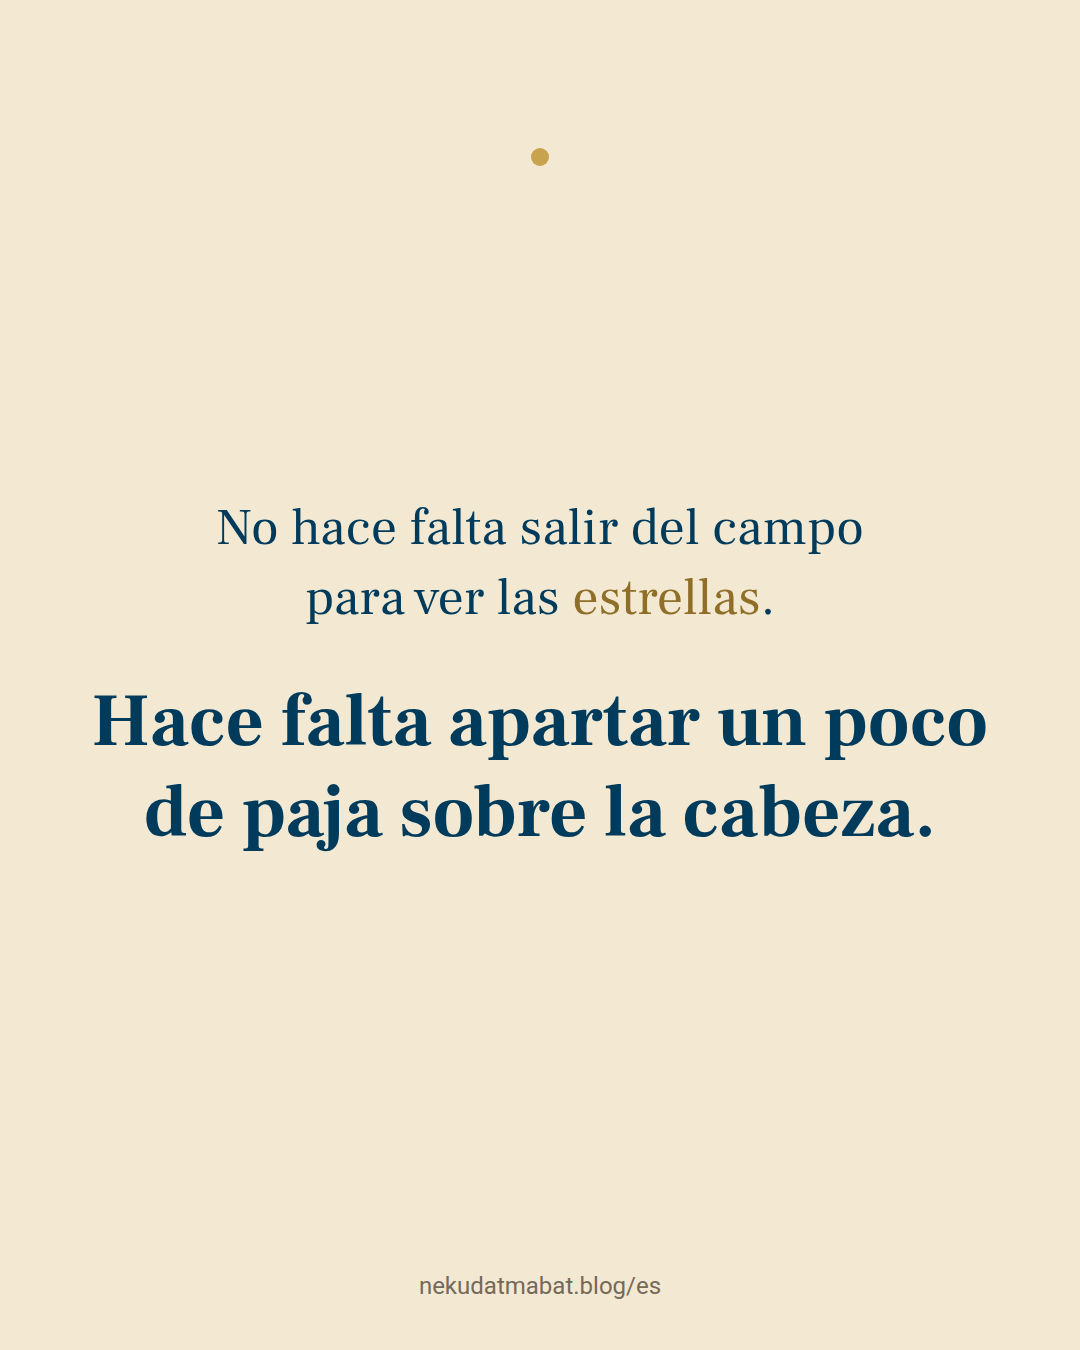
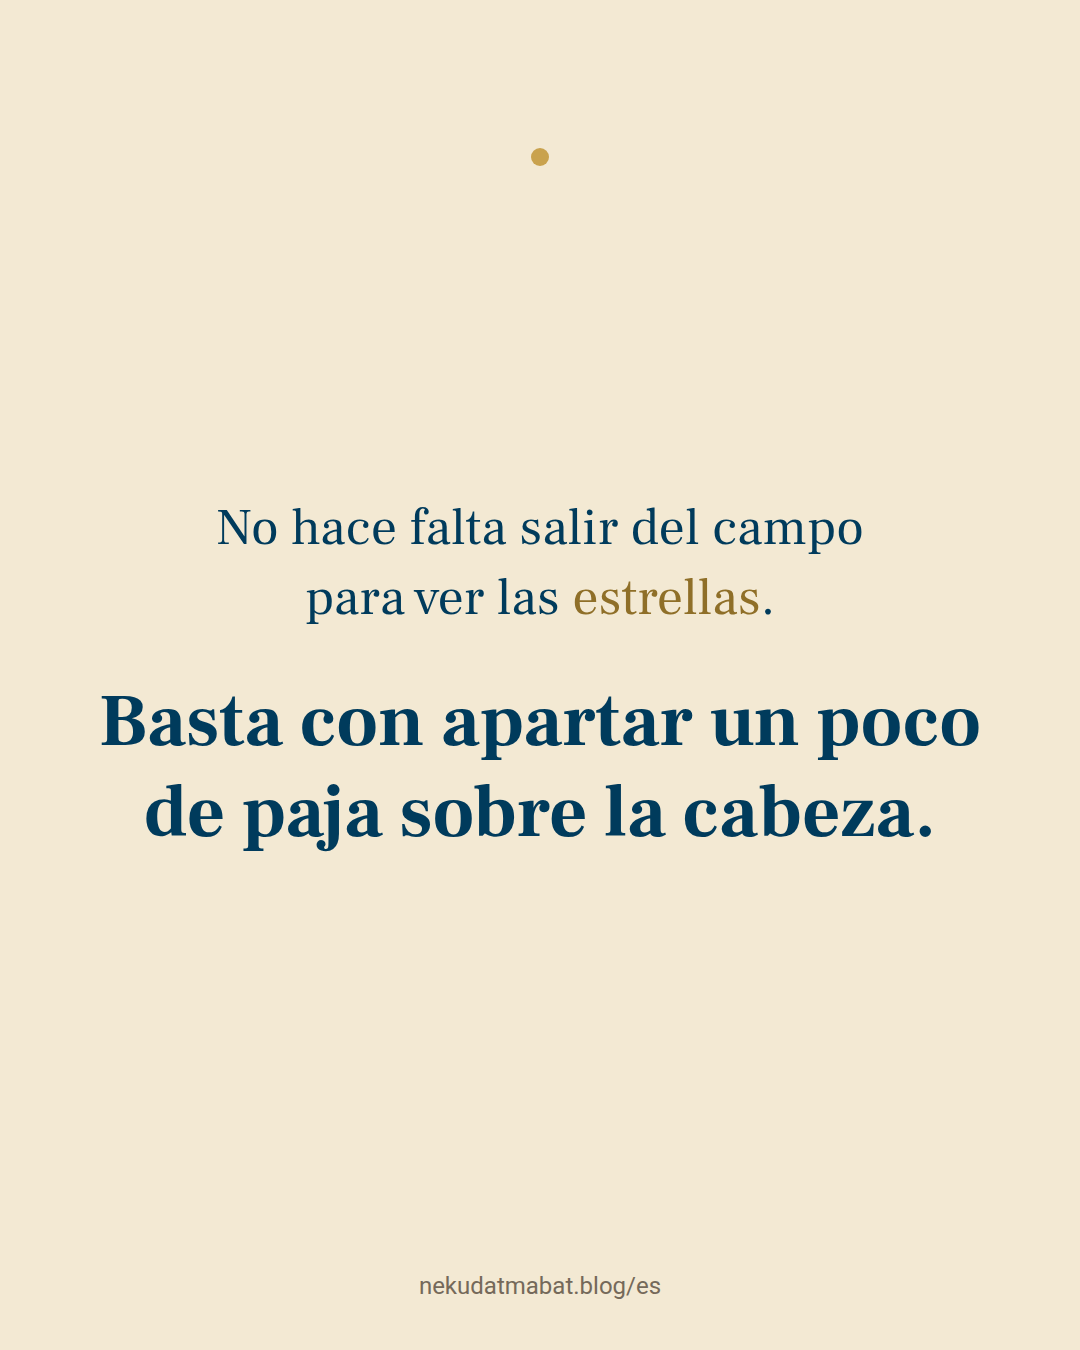
מבט לשבת לסוכות: גרסה סופית מאושרת, ממוזגת עם שכתוב בעל הפרויקט
Claude-Session: https://claude.ai/code/session_011p1WQmtQMD96LxKFeWuRnE

Changed region(s): [[0.0917, 0.4978, 0.9167, 0.56]]

diff --git a/src/content/mabat-leshabbat/sukkot.md b/src/content/mabat-leshabbat/sukkot.md
@@ -8,6 +8,9 @@
 # "המחנה לא השתנה" (הד ל"התיק לא השתנה"), ומסר אחד — שמחה שלא מחכה לשחרור.
 # הלכה: "החוטט בגדיש" (סוכה טו ע"א) — הטור אינו טוען שהסוכה כשרה; "לחש את
 # הברכה" מוסר את העדות בלי להכריע.
+# גרסה סופית (2026-09-24): מיזוג עם שכתוב של בעל הפרויקט — "הוא הסתכל עליה שוב. קש.",
+# "לא כשהגיעו אל המנוחה", "ובכל זאת", "ואנחנו? גם אנחנו מחכים", החתימה "לשמוח גם בדרך";
+# הפתגם: "מספיק לפנות" (במקום "צריך").
 # תמונת ציטוט: הפתגם, פול-קווט מילה במילה ("כוכבים" בזהב כהה). עולה ב-25.9 בשעה 10:00 שעון ישראל (07:00Z), בהוראת בעל הפרויקט.
 title: מתי מותר לשמוח?
 parasha: חג הסוכות
@@ -15,22 +18,24 @@ hebrewDate: ט"ו בתשרי תשפ"ז
 description: "סוכות, במחנה עבודה סובייטי. אסיר יהודי, שלוש שנים בכלא סגור על שמירת שבת, ומצווה אחת שלא הצליח לקיים שם אף פעם. בקצה המחנה עומדת ערימת קש. ליד הגדר החשמלית."
 date: 2026-09-25T07:00:00Z
 quoteImage: ../../assets/mabat-leshabbat/sukkot-quote.png
-quoteImageAlt: "לא צריך לצאת מהמחנה כדי לראות כוכבים. צריך לפנות קצת קש מעל הראש."
+quoteImageAlt: "לא צריך לצאת מהמחנה כדי לראות כוכבים. מספיק לפנות קצת קש מעל הראש."
 signoff: |
   שבת שלום וחג שמח.
-  שנזכה לשמוח השנה
-  גם לפני שהכול מסתדר,
-  ולמצוא בכל מקום
-  פתח קטן לכוכבים.
+  שנזכה השנה
+  לא רק להגיע אל היעד,
+  אלא לשמוח גם בדרך.
 signedBy: אפרים עטיה
 ---
 
 סוכות, במחנה עבודה בברית המועצות.
 
-בקצה המחנה, הוא ראה ערימת קש.
+בקצה המחנה, אסיר יהודי ראה ערימת קש.
 
-אסיר יהודי.
-שמר שבת בתוך המחנה.
+הוא הסתכל עליה שוב.
+
+קש.
+
+הוא שמר שבת בתוך המחנה.
 על זה כבר ישב שלוש שנים בכלא סגור.
 
 התפלל. שמר את החגים. כל מה שאפשר.
@@ -42,7 +47,7 @@ signedBy: אפרים עטיה
 קש הוא סכך.
 
 ואם יחפור בתוך הערימה,
-עד שייראו מעליו כוכבים —
+עד שיוכל להרים את הראש ולראות כוכבים —
 
 אבל הערימה עמדה ליד הגדר החשמלית.
 
@@ -60,7 +65,8 @@ signedBy: אפרים עטיה
 
 "לְמַעַן יֵדְעוּ דֹרֹתֵיכֶם כִּי בַסֻּכּוֹת הוֹשַׁבְתִּי אֶת בְּנֵי יִשְׂרָאֵל בְּהוֹצִיאִי אוֹתָם מֵאֶרֶץ מִצְרָיִם."
 
-לא כשהגיעו.
+לא אחרי שהמסע נגמר.
+לא כשהגיעו אל המנוחה.
 
 **בזמן שיצאו.**
 
@@ -82,7 +88,7 @@ signedBy: אפרים עטיה
 
 נכנס לתוך הקש.
 
-גירד מעל הראש, עד שראה כוכבים.
+חפר מעל הראש, עד שראה כוכבים.
 
 לחש את הברכה, "לֵישֵׁב בַּסֻּכָּה".
 
@@ -92,7 +98,7 @@ signedBy: אפרים עטיה
 
 הגדר לא זזה. המחנה לא השתנה.
 
-אבל לבו, כך כתב אחר כך, **התמלא שמחה**.
+ובכל זאת, לבו, כך כתב אחר כך, **התמלא שמחה**.
 
 זמן קצר אחר כך הוא שוחרר,
 וגורש מהכלא ישר לארץ ישראל.
@@ -101,18 +107,18 @@ signedBy: אפרים עטיה
 אחת-עשרה שנה במאסר,
 **כי ניסה לצאת.**
 
-ואנחנו מחכים.
+ואנחנו?
 
-שיסתדר. שייגמר. שנצא מזה.
+גם אנחנו מחכים.
 
-"כשתהיה לי פרנסה."
-"כשהבית יירגע."
-"אחרי שהתקופה הזאת תעבור."
+שהפרנסה תסתדר.
+שהבית יירגע.
+שהתקופה הזאת תעבור.
 
 ואז נשמח.
 
 לא צריך לצאת מהמחנה כדי לראות כוכבים.
 
-**צריך לפנות קצת קש מעל הראש.**
+**מספיק לפנות קצת קש מעל הראש.**
 
 **אז מה אנחנו עוד מחכים שייגמר, לפני שנרשה לעצמנו לשמוח?**

diff --git a/src/content/mabat-es/sukkot.md b/src/content/mabat-es/sukkot.md
@@ -11,21 +11,23 @@ hebrewDate: 15 de Tishrei 5787
 description: "Sucot, en un campo de trabajo soviético. Un preso judío, tres años en prisión cerrada por guardar Shabat, y una mitzvá que nunca pudo cumplir allí. Al fondo del campo hay un montón de paja. Junto a la cerca eléctrica."
 date: 2026-09-25T07:00:00Z
 quoteImage: ../../assets/mabat-leshabbat/sukkot-quote-es.png
-quoteImageAlt: "No hace falta salir del campo para ver las estrellas. Hace falta apartar un poco de paja sobre la cabeza."
+quoteImageAlt: "No hace falta salir del campo para ver las estrellas. Basta con apartar un poco de paja sobre la cabeza."
 signoff: |
   Shabat shalom y jag saméaj.
-  Ojalá sepamos alegrarnos este año
-  también antes de que todo se arregle,
-  y encontrar en cualquier lugar
-  una pequeña abertura hacia las estrellas.
+  Ojalá este año
+  no solo lleguemos a destino,
+  sino que sepamos alegrarnos también en el camino.
 signedBy: Efraim Atia
 ---
 
 Sucot, en un campo de trabajo de la Unión Soviética.
 
-Al fondo del campo vio un montón de paja.
+Al fondo del campo, un preso judío vio un montón de paja.
 
-Un preso judío.
+Lo miró otra vez.
+
+Paja.
+
 Guardaba Shabat dentro del campo.
 Por eso ya había pasado tres años en prisión cerrada.
 
@@ -38,7 +40,7 @@ Y había una mitzvá que nunca había logrado cumplir allí:
 La paja sirve para el techo de una sucá.
 
 Y si cavaba dentro del montón
-hasta ver estrellas encima —
+hasta poder levantar la cabeza y ver estrellas —
 
 Pero el montón estaba junto a la cerca eléctrica.
 
@@ -56,7 +58,8 @@ En la lectura de la festividad, la Torá explica por qué nos sentamos en la suc
 
 «Para que sepan sus generaciones que en cabañas hice habitar a los hijos de Israel cuando los saqué de la tierra de Egipto».
 
-No cuando llegaron.
+No cuando terminó el viaje.
+No cuando ya estaban en su tierra.
 
 **Mientras salían.**
 
@@ -79,7 +82,7 @@ corrió.
 
 Se metió en la paja.
 
-Apartó la paja sobre su cabeza hasta ver las estrellas.
+Cavó sobre su cabeza hasta ver las estrellas.
 
 Susurró la bendición: «leishev basuká».
 
@@ -89,7 +92,7 @@ Unos pocos instantes.
 
 La cerca no se movió. El campo no cambió.
 
-Pero su corazón, escribió después, **se llenó de alegría**.
+Y aun así, su corazón, escribió después, **se llenó de alegría**.
 
 Poco tiempo después lo liberaron
 y lo expulsaron de la cárcel directo a la Tierra de Israel.
@@ -98,18 +101,18 @@ Yosef Mendelevich. Prisionero de Sion.
 Once años en prisión
 **por intentar salir.**
 
-Y nosotros esperamos.
+¿Y nosotros?
 
-Que se arregle. Que termine. Que salgamos de esto.
+Nosotros también esperamos.
 
-«Cuando me alcance para vivir».
-«Cuando la casa se calme».
-«Cuando pase esta etapa».
+Que alcance el dinero.
+Que la casa se calme.
+Que pase esta etapa.
 
 Y entonces nos alegraremos.
 
 No hace falta salir del campo para ver las estrellas.
 
-**Hace falta apartar un poco de paja sobre la cabeza.**
+**Basta con apartar un poco de paja sobre la cabeza.**
 
 **¿Qué seguimos esperando que termine antes de permitirnos la alegría?**

diff --git a/CLAUDE.md b/CLAUDE.md
@@ -563,6 +563,7 @@
   - **תרגום לפי docs/SPANISH-EDITORIAL-GUIDELINES.md:** בלי פסיק בשבירת שורה, ציטוטים ב-« » עם נקודה בחוץ, `Ojalá sepamos` (לא `Que merezcamos`), סכך מוסבר בחצי משפט ("la paja sirve para el techo de una sucá"), `parasha: Shabat de Sucot` כדי ש-kickerEs לא יקדים "Parashá". hreflang הדדי.
   - **תקלה שההדמיה תפסה:** הדגשה (`**`) שנפרשת על שתי שורות אינה עובדת בפורמט מבט לשבת — הכוכביות יוצאות גלויות. השאלה החותמת נכתבה בשורה אחת.
   - נבדק בבנייה (עם תאריך זמני בעבר, שהוחזר): 395 עמודים, 0 שגיאות; דפדפן אמיתי ב-390 וב-1280 בשתי השפות — אפס גלישה, אפס שגיאות JS, התמונות נטענות.
+  - **גרסה סופית (2026-09-24), אחרי שכתוב של בעל הפרויקט ומיזוג באישורו:** נשמר משלו — "הוא הסתכל עליה שוב. / קש.", "רק להרים את הראש" בתוכנית, "לא כשהגיעו אל המנוחה", "ובכל זאת", "ואנחנו? גם אנחנו מחכים.", והחתימה "לא רק להגיע אל היעד, אלא לשמוח גם בדרך". הוחזר — "סוכה" לא נחשפת לפני הבית שלה, "על זה כבר ישב שלוש שנים בכלא סגור" (הנוסח שלו קבע שהוא עדיין בכלא, בסתירה למחנה), המשפט הקטוע במקום "יוכל ליצור לעצמו סוכה" (החוטט בגדיש), "כך כתב אחר כך" (העדות), "בלי לדעת כמה זמן עוד" (לאן — ידעו), "אחת-עשרה שנה". ירדו — משפטי הגשר ("שימו לב", "ואולי זה בדיוק החיבור", "בלי לדעת, החזיק באותו רעיון") והמשפט שאמר את המסר לפני הפתגם, כדי שהרעיון ייאמר פעם אחת. הפתגם: "מספיק לפנות" במקום "צריך" — שתי תמונות הציטוט נבנו מחדש. הספרדית עודכנה בהתאם ("Basta con…", חתימה "también en el camino").
   - **לפני פרסום מומלץ** לקרוא בדפדפן רגיל את העדות המלאה ("Sukkot in a KGB prison", Times of Israel) — חסומה מסביבת העבודה, והפרטים אומתו מתקצירי חיפוש.
 
 - [ ] שלב 5: תוכן אמיתי וליטוש — היעד הראשוני: ~5 סיפורים מכל עולם תוכן (בעל הפרויקט בוחר במספרי ארכיון). ממתין לקבצים מבעל הפרויקט (צירוף לשיחה או הפעלת Drive).
